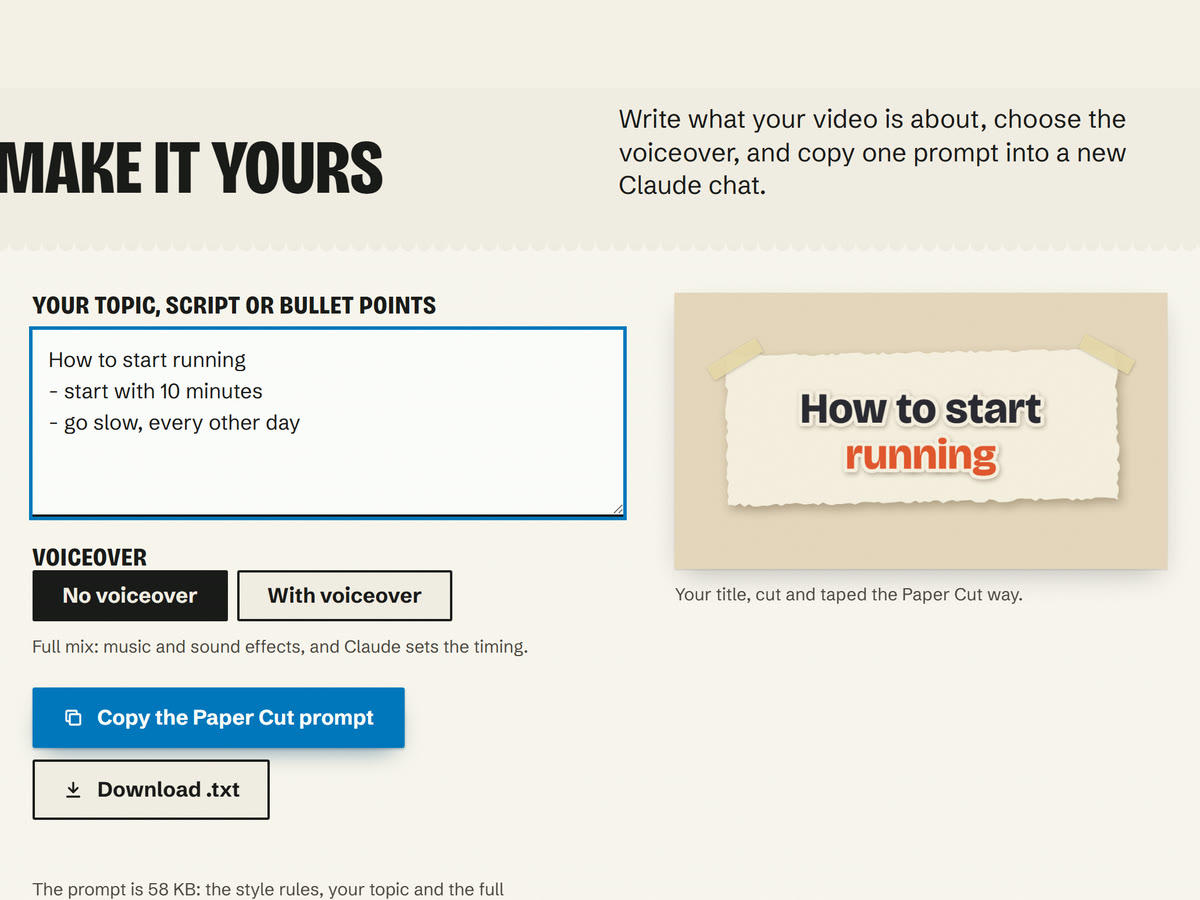
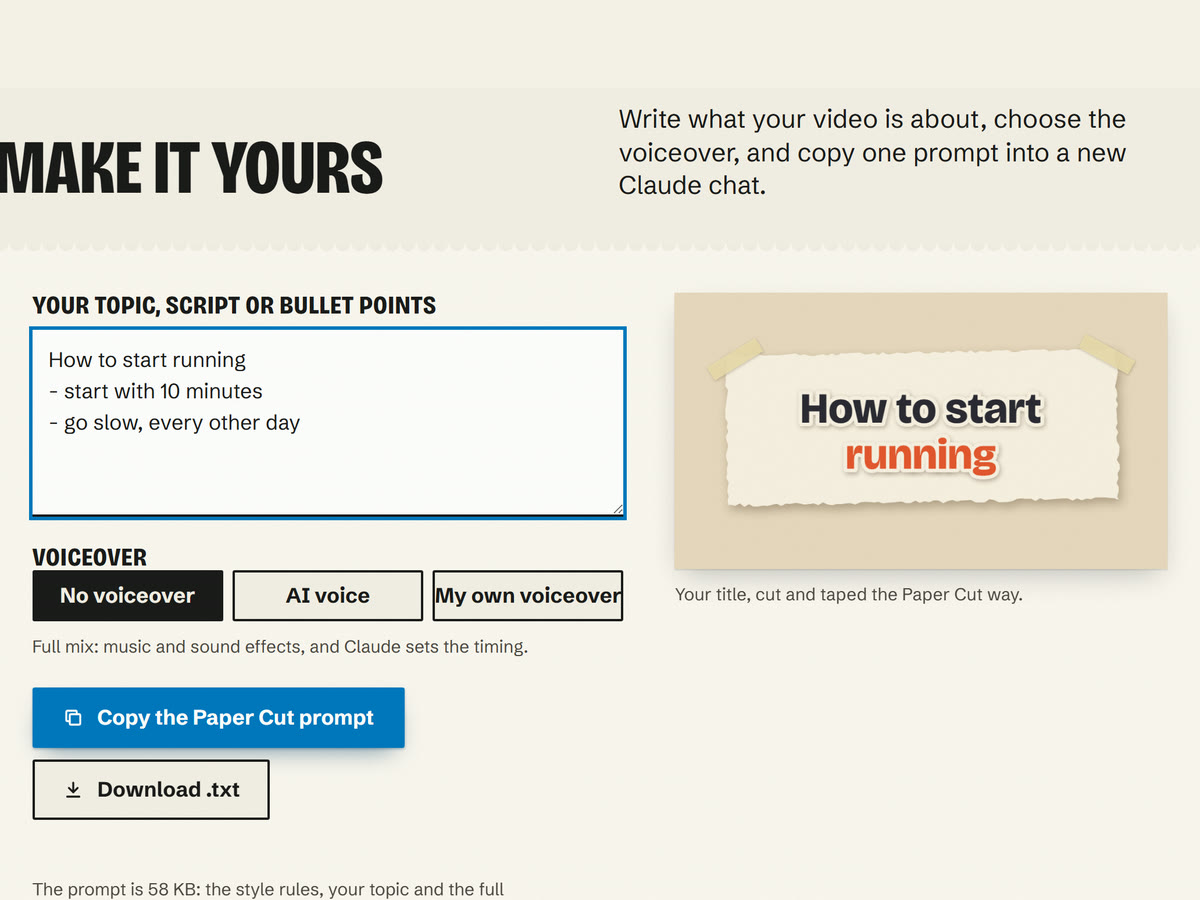
AI voice option (female/male), live-drawn storyboard stills, updated steps and FAQ

Changed region(s): [[0.0308, 0.6222, 0.5242, 0.7156]]

diff --git a/src/lib/buildPrompt.ts b/src/lib/buildPrompt.ts
@@ -1,17 +1,30 @@
 // Assembles the prompt a visitor copies: the style's rules with their topic in the {{CONTENT}} slot,
 // a voiceover section for the mode they picked, and the complete reference file. Runs in the browser only.
-export type VoiceMode = 'none' | 'voiceover';
+export type VoiceMode = 'none' | 'voiceover' | 'ai';
+export type AiVoice = 'female' | 'male';
 
-const VOICE: Record<VoiceMode, string> = {
-  none: 'VOICEOVER\nNone. Use the full mix described under SOUND and set every beat time yourself, at the pace the style asks for.',
-  voiceover:
-    'VOICEOVER\nI have a voiceover. I will attach the audio file (or its script with word timings); if it is not attached yet, ask me for it before building. Time every beat to the spoken words so each word on screen lands as it is said, change scenes on sentence boundaries, set TL.D to the voiceover length plus about one second, and render the sound with { voiceover: true } so the effects sit quietly under my voice.',
+const voiceSection = (mode: VoiceMode, ai: AiVoice) => {
+  if (mode === 'none') return 'VOICEOVER\nNone. Use the full mix described under SOUND and set every beat time yourself, at the pace the style asks for.';
+  if (mode === 'voiceover')
+    return 'VOICEOVER\nI have a voiceover. I will attach the audio file (or its script with word timings); if it is not attached yet, ask me for it before building. Time every beat to the spoken words so each word on screen lands as it is said, change scenes on sentence boundaries, set TL.D to the voiceover length plus about one second, and render the sound with { voiceover: true } so the effects sit quietly under my voice.';
+  return `VOICEOVER
+AI voice, ${ai}. I don't have a recording, so narrate the video with a text-to-speech voice:
+- Script first: write a short narration for my topic (hook in the first line, short sentences, about 2.5 words per second) and show it to me with the storyboard for approval.
+- Timing: set every beat from the script at about 2.5 words per second, so each word on screen lands as it is spoken; change scenes on sentence boundaries; set TL.D to the narration length plus about one second.
+- In the HTML: speak each line with the browser's built-in text-to-speech (window.speechSynthesis) when playback reaches that line's beat. Pick the most natural ${ai} English voice from speechSynthesis.getVoices() (prefer names containing "Natural", "Neural" or "Google"), cancel speech on pause, seek or loop, and add a "Voice on/off" button to the player. While the voice is on, start the live sound with { voiceover: true } so the effects sit quietly under it.
+- Keep window.seek(t), window.DURATION, window.scoreSound and window.SFX working exactly as before: the browser voice is for live playback only.
+- For an MP4 (with Claude Code): generate the narration as an audio file with a free local text-to-speech tool (for example Kokoro, via \`npx hyperframes tts "<line>" --voice ${ai === 'female' ? 'af_heart' : 'am_michael'}\`, one line at a time with short pauses), re-time the beats to its real word timings, and mix it under the effects rendered with { voiceover: true }.`;
 };
+
+// style-independent instructions that keep every build self-contained
+const BUILD_NOTES = `BUILD NOTES
+- Storyboard stills: draw every panel live in the same HTML page, one <canvas> per beat, by calling the animation's own drawing code at that beat's time (render each still onto its own canvas). Never point an <img> at image files that don't exist: the storyboard page must show every still with nothing else attached.
+- The finished animation is one self-contained HTML file; any picture it needs is drawn in code or embedded in the file.`;
 
 export const TOPIC_PLACEHOLDER = '[Write your topic, script or bullet points here]';
 
-export function buildPrompt(rules: string, reference: string, topic: string, mode: VoiceMode): string {
-  const content = (topic.trim() || TOPIC_PLACEHOLDER) + '\n\n' + VOICE[mode];
+export function buildPrompt(rules: string, reference: string, topic: string, mode: VoiceMode, ai: AiVoice = 'female'): string {
+  const content = (topic.trim() || TOPIC_PLACEHOLDER) + '\n\n' + voiceSection(mode, ai) + '\n\n' + BUILD_NOTES;
   // function replacer, so "$" in the visitor's text is kept as typed
   return `${rules.replace('{{CONTENT}}', () => content).trimEnd()}\n\nREFERENCE SOURCE (the complete working file)\n\`\`\`html\n${reference.trimEnd()}\n\`\`\`\n`;
 }
@@ -30,7 +43,8 @@ ${topicText}
 HOW TO WORK
 1. First, explain in a few short lines how the reference engine works (timeline, scenes, compositor, sound score) and what you will change for my look.
 2. Then show me ONE still frame of the new style, drawn with the real code, and wait for my OK before going further.
-3. After my OK, build a 15 to 25 second demo animation as one self-contained HTML file, and write a style guide for it in the same section format as the Paper Cut guide below (MY CONTENT with a {{CONTENT}} slot, STORYBOARD FIRST, WHAT TO BUILD, THE STYLE, RULES THAT KEEP IT IN STYLE, SOUND, IF YOU CAN RUN CODE, STYLE CARD), so I can reuse it for any topic.
+3. Draw that still (and any storyboard stills) live on a <canvas> in the page with the real code; never point an <img> at image files that don't exist.
+4. After my OK, build a 15 to 25 second demo animation as one self-contained HTML file, and write a style guide for it in the same section format as the Paper Cut guide below (MY CONTENT with a {{CONTENT}} slot, STORYBOARD FIRST, WHAT TO BUILD, THE STYLE, RULES THAT KEEP IT IN STYLE, SOUND, IF YOU CAN RUN CODE, STYLE CARD), so I can reuse it for any topic.
 
 WHAT TO KEEP AND WHAT TO CHANGE
 - Keep: the page and player, the PK helpers, the SND sound kit and its render() function, the compositor, a 1280x720 canvas, and window.seek(t), window.DURATION, window.scoreSound, window.SFX and window.__ready.

diff --git a/src/components/PromptBuilder.tsx b/src/components/PromptBuilder.tsx
@@ -1,5 +1,5 @@
 import { useEffect, useMemo, useState } from 'preact/hooks';
-import { buildPrompt, kb, type VoiceMode } from '../lib/buildPrompt';
+import { buildPrompt, kb, type AiVoice, type VoiceMode } from '../lib/buildPrompt';
 import TitleCard from './TitleCard';
 
 interface Props { styleId: string; styleName: string; showCard?: boolean }
@@ -16,6 +16,7 @@ export default function PromptBuilder({ styleId, styleName, showCard = true }: P
   const [failed, setFailed] = useState(false);
   const [topic, setTopic] = useState('');
   const [mode, setMode] = useState<VoiceMode>('none');
+  const [ai, setAi] = useState<AiVoice>('female');
   const [status, setStatus] = useState<'idle' | 'copied' | 'error'>('idle');
   const [pulls, setPulls] = useState(0); // each copy pulls a fresh print
 
@@ -26,10 +27,14 @@ export default function PromptBuilder({ styleId, styleName, showCard = true }: P
       .catch(() => setFailed(true));
   }, [styleId]);
 
-  const prompt = useMemo(() => (files ? buildPrompt(files.rules, files.reference, topic, mode) : ''), [files, topic, mode]);
+  const prompt = useMemo(() => (files ? buildPrompt(files.rules, files.reference, topic, mode, ai) : ''), [files, topic, mode, ai]);
   // reset "Copied" in the handlers, not in an effect: an effect runs after paint and can wipe a copy made right after a change
   const changeTopic = (t: string) => { setTopic(t); setStatus('idle'); };
   const changeMode = (m: VoiceMode) => { setMode(m); setStatus('idle'); };
+  const changeAi = (v: AiVoice) => { setAi(v); setStatus('idle'); };
+  const voiceNote = mode === 'none' ? 'Full mix: music and sound effects, and Claude sets the timing.'
+    : mode === 'voiceover' ? 'Every word lands as you say it, with the effects under your voice. Attach your recording in Claude.'
+    : 'Claude writes a script for your OK, then the video narrates it with a natural AI voice, timed to the words. With Claude Code it can also save the voice into the MP4.';
 
   const copy = async () => {
     try { await navigator.clipboard.writeText(prompt); setStatus('copied'); setPulls((n) => n + 1); } catch { setStatus('error'); }
@@ -51,9 +56,16 @@ export default function PromptBuilder({ styleId, styleName, showCard = true }: P
           <legend class="field-label">Voiceover</legend>
           <div class="toggle">
             <button type="button" class="btn paper" aria-pressed={mode === 'none'} onClick={() => changeMode('none')}>No voiceover</button>
-            <button type="button" class="btn paper" aria-pressed={mode === 'voiceover'} onClick={() => changeMode('voiceover')}>With voiceover</button>
+            <button type="button" class="btn paper" aria-pressed={mode === 'ai'} onClick={() => changeMode('ai')}>AI voice</button>
+            <button type="button" class="btn paper" aria-pressed={mode === 'voiceover'} onClick={() => changeMode('voiceover')}>My own voiceover</button>
           </div>
-          <p class="small soft">{mode === 'none' ? 'Full mix: music and sound effects, and Claude sets the timing.' : 'Every word lands as it is spoken, with the effects under your voice. Attach your audio in Claude.'}</p>
+          {mode === 'ai' && (
+            <div class="toggle sub" role="group" aria-label="AI voice">
+              <button type="button" class="btn paper" aria-pressed={ai === 'female'} onClick={() => changeAi('female')}>Female voice</button>
+              <button type="button" class="btn paper" aria-pressed={ai === 'male'} onClick={() => changeAi('male')}>Male voice</button>
+            </div>
+          )}
+          <p class="small soft">{voiceNote}</p>
         </fieldset>
         <div class="actions">
           <button type="button" class="btn" disabled={!files} onClick={copy}><CopyIcon />{status === 'copied' ? 'Copied' : `Copy the ${styleName} prompt`}</button>

diff --git a/src/css/global.css b/src/css/global.css
@@ -103,6 +103,10 @@ p { margin: 0; text-wrap: pretty; }
 .field textarea:focus, .field input:focus { background: #fff; outline: none; box-shadow: 0 0 0 3px var(--blue); }
 .toggle { display: flex; flex-wrap: wrap; gap: 8px; }
 .toggle .btn { min-height: 44px; }
+.toggle:not(.sub) { display: grid; grid-template-columns: repeat(auto-fit, minmax(140px, 1fr)); }
+.toggle:not(.sub) .btn { padding: 0 12px; white-space: nowrap; }
+.toggle.sub { padding-left: 14px; border-left: 2px solid var(--pink); }
+.toggle.sub .btn { min-height: 40px; padding: 0 16px; font-size: var(--t-small); }
 .actions { display: flex; flex-wrap: wrap; gap: 10px; align-items: center; }
 .status { font-size: var(--t-small); color: var(--ink-soft); min-height: 2.6em; }
 .builder-card { margin: 0; }
